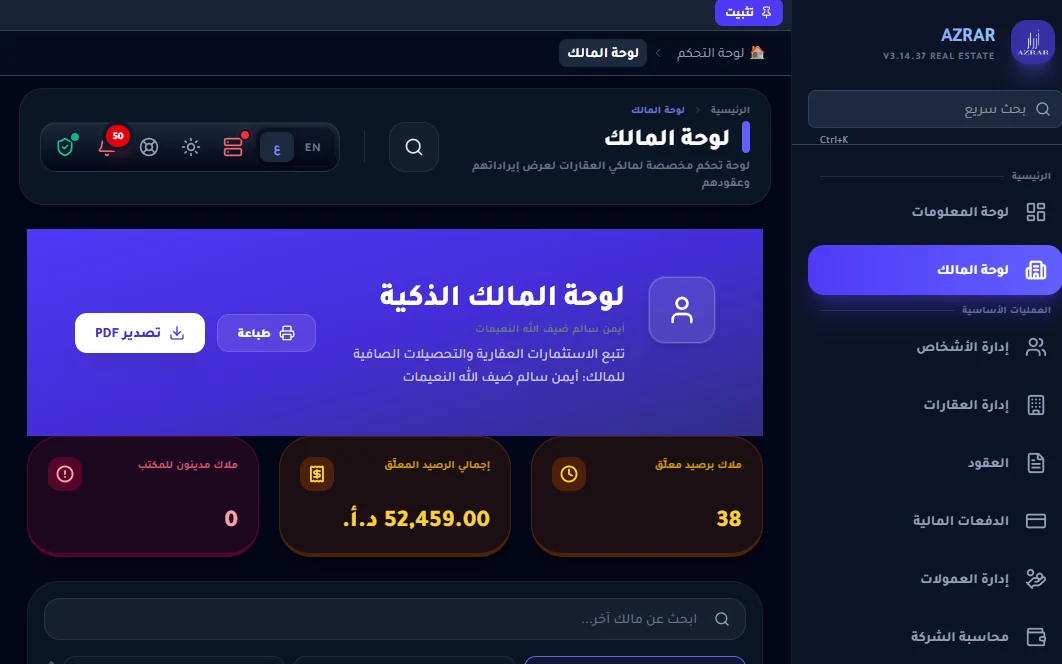
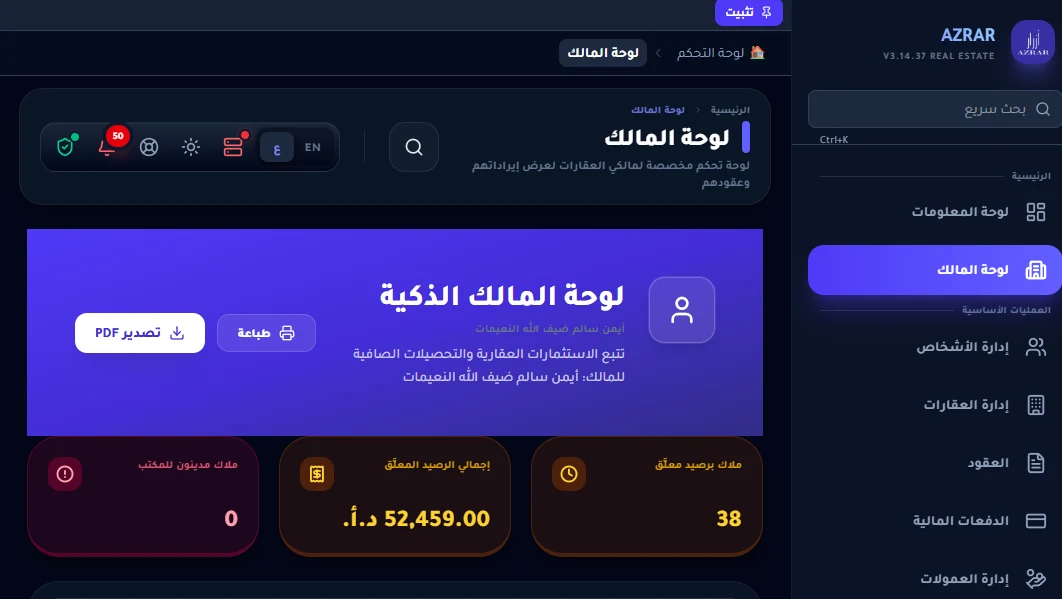
design: make the screenshots grid uniformly compact per user request
Applied a single aspect-ratio:1100/620 + object-fit:cover to the base
.shot img rule so every card in the gallery - not just the 4 recently
added ones - renders at the same short landscape height instead of each
following its own source image's natural aspect ratio. Regenerated the
4 custom thumbnail crops (owner-portal/company-finance/accounting/
print-catalog) directly at this ratio rather than relying on a second
CSS crop on top of the previous crop, and updated their width/height
attributes to match. Checked each one still shows meaningful content
(stat cards or report grid, not just the header) after the tighter crop.

diff --git a/screenshots.html b/screenshots.html
@@ -72,7 +72,7 @@ a{color:var(--blue-l);}
 .shots-grid{display:grid;grid-template-columns:repeat(4,1fr);gap:1.1rem;align-items:start;}
 .shot{margin:0;background:var(--card);border:1px solid var(--border);border-radius:14px;overflow:hidden;cursor:pointer;box-shadow:0 6px 22px rgba(15,27,51,.07);transition:transform .2s,box-shadow .2s;}
 .shot:hover{transform:translateY(-4px);box-shadow:0 16px 36px rgba(15,27,51,.16);}
-.shot img{width:100%;height:auto;display:block;background:#0f1b33;}
+.shot img{width:100%;aspect-ratio:1100/620;object-fit:cover;object-position:top;display:block;background:#0f1b33;}
 .shot.wide{grid-column:1/-1;}
 .shot.wide img{max-height:460px;object-fit:cover;object-position:top;}
 .shot figcaption{padding:.7rem 1rem;font-size:.85rem;font-weight:700;color:var(--head);text-align:center;border-top:1px solid var(--border);}
@@ -177,10 +177,10 @@ height="0" width="0" style="display:none;visibility:hidden"></iframe></noscript>
       <figure class="shot" onclick="openShot('shots/help.webp')"><img src="shots/help.webp" width="1100" height="687" loading="lazy" alt="AZRAR Help & Documentation"><figcaption>مركز المساعدة والدعم</figcaption></figure>
       <figure class="shot" onclick="openShot('shots/login.webp')"><img src="shots/login.webp" width="760" height="475" loading="lazy" alt="AZRAR Login"><figcaption>تسجيل الدخول</figcaption></figure>
       <figure class="shot" onclick="openShot('shots/menu.webp')"><img src="shots/menu.webp" width="263" height="1829" loading="lazy" alt="AZRAR 17 Modules Menu"><figcaption>قائمة الأنظمة الفرعية الـ17</figcaption></figure>
-      <figure class="shot" onclick="openShot('shots/owner-portal.webp')"><img src="shots/owner-portal-thumb.webp" width="1062" height="664" loading="lazy" alt="AZRAR Owner Portal"><figcaption>لوحة المالك</figcaption></figure>
-      <figure class="shot" onclick="openShot('shots/company-finance.webp')"><img src="shots/company-finance-thumb.webp" width="791" height="560" loading="lazy" alt="AZRAR Company Finance"><figcaption>محاسبة الشركة</figcaption></figure>
-      <figure class="shot" onclick="openShot('shots/accounting.webp')"><img src="shots/accounting-thumb.webp" width="784" height="490" loading="lazy" alt="AZRAR Accounting System"><figcaption>النظام المحاسبي</figcaption></figure>
-      <figure class="shot" onclick="openShot('shots/print-catalog.webp')"><img src="shots/print-catalog-thumb.webp" width="798" height="700" loading="lazy" alt="AZRAR Print Catalog"><figcaption>كتالوج الطباعة</figcaption></figure>
+      <figure class="shot" onclick="openShot('shots/owner-portal.webp')"><img src="shots/owner-portal-thumb.webp" width="1062" height="599" loading="lazy" alt="AZRAR Owner Portal"><figcaption>لوحة المالك</figcaption></figure>
+      <figure class="shot" onclick="openShot('shots/company-finance.webp')"><img src="shots/company-finance-thumb.webp" width="791" height="446" loading="lazy" alt="AZRAR Company Finance"><figcaption>محاسبة الشركة</figcaption></figure>
+      <figure class="shot" onclick="openShot('shots/accounting.webp')"><img src="shots/accounting-thumb.webp" width="784" height="442" loading="lazy" alt="AZRAR Accounting System"><figcaption>النظام المحاسبي</figcaption></figure>
+      <figure class="shot" onclick="openShot('shots/print-catalog.webp')"><img src="shots/print-catalog-thumb.webp" width="798" height="450" loading="lazy" alt="AZRAR Print Catalog"><figcaption>كتالوج الطباعة</figcaption></figure>
   </div>
   <div class="note">ملاحظة: أسماء العملاء في لقطة العقود مضبّبة حفاظاً على الخصوصية.</div>
   <div class="cta"><h2>جرّب نظام أزرار مجاناً</h2><p>30 يوماً بكل المزايا — بدون بطاقة ائتمان.</p><a href="https://wa.me/962798986465?text=أريد%20تجربة%20نظام%20أزرار%20مجاناً" target="_blank" rel="noopener">تواصل عبر واتساب</a></div>

diff --git a/screenshots-en.html b/screenshots-en.html
@@ -72,7 +72,7 @@ a{color:var(--blue-l);}
 .shots-grid{display:grid;grid-template-columns:repeat(4,1fr);gap:1.1rem;align-items:start;}
 .shot{margin:0;background:var(--card);border:1px solid var(--border);border-radius:14px;overflow:hidden;cursor:pointer;box-shadow:0 6px 22px rgba(15,27,51,.07);transition:transform .2s,box-shadow .2s;}
 .shot:hover{transform:translateY(-4px);box-shadow:0 16px 36px rgba(15,27,51,.16);}
-.shot img{width:100%;height:auto;display:block;background:#0f1b33;}
+.shot img{width:100%;aspect-ratio:1100/620;object-fit:cover;object-position:top;display:block;background:#0f1b33;}
 .shot.wide{grid-column:1/-1;}
 .shot.wide img{max-height:460px;object-fit:cover;object-position:top;}
 .shot figcaption{padding:.7rem 1rem;font-size:.85rem;font-weight:700;color:var(--head);text-align:center;border-top:1px solid var(--border);}
@@ -177,10 +177,10 @@ height="0" width="0" style="display:none;visibility:hidden"></iframe></noscript>
       <figure class="shot" onclick="openShot('shots/help.webp')"><img src="shots/help.webp" width="1100" height="687" loading="lazy" alt="AZRAR Help & Documentation"><figcaption>Help Center & Guides</figcaption></figure>
       <figure class="shot" onclick="openShot('shots/login.webp')"><img src="shots/login.webp" width="760" height="475" loading="lazy" alt="AZRAR Login"><figcaption>Login Screen</figcaption></figure>
       <figure class="shot" onclick="openShot('shots/menu.webp')"><img src="shots/menu.webp" width="263" height="1829" loading="lazy" alt="AZRAR 17 Modules Menu"><figcaption>17 Sub-Systems Menu</figcaption></figure>
-      <figure class="shot" onclick="openShot('shots/owner-portal.webp')"><img src="shots/owner-portal-thumb.webp" width="1062" height="664" loading="lazy" alt="AZRAR Owner Portal"><figcaption>Owner Portal</figcaption></figure>
-      <figure class="shot" onclick="openShot('shots/company-finance.webp')"><img src="shots/company-finance-thumb.webp" width="791" height="560" loading="lazy" alt="AZRAR Company Finance"><figcaption>Company Finance</figcaption></figure>
-      <figure class="shot" onclick="openShot('shots/accounting.webp')"><img src="shots/accounting-thumb.webp" width="784" height="490" loading="lazy" alt="AZRAR Accounting System"><figcaption>Accounting System</figcaption></figure>
-      <figure class="shot" onclick="openShot('shots/print-catalog.webp')"><img src="shots/print-catalog-thumb.webp" width="798" height="700" loading="lazy" alt="AZRAR Print Catalog"><figcaption>Print Catalog</figcaption></figure>
+      <figure class="shot" onclick="openShot('shots/owner-portal.webp')"><img src="shots/owner-portal-thumb.webp" width="1062" height="599" loading="lazy" alt="AZRAR Owner Portal"><figcaption>Owner Portal</figcaption></figure>
+      <figure class="shot" onclick="openShot('shots/company-finance.webp')"><img src="shots/company-finance-thumb.webp" width="791" height="446" loading="lazy" alt="AZRAR Company Finance"><figcaption>Company Finance</figcaption></figure>
+      <figure class="shot" onclick="openShot('shots/accounting.webp')"><img src="shots/accounting-thumb.webp" width="784" height="442" loading="lazy" alt="AZRAR Accounting System"><figcaption>Accounting System</figcaption></figure>
+      <figure class="shot" onclick="openShot('shots/print-catalog.webp')"><img src="shots/print-catalog-thumb.webp" width="798" height="450" loading="lazy" alt="AZRAR Print Catalog"><figcaption>Print Catalog</figcaption></figure>
   </div>
   <div class="note">Note: client names in the contracts shot are blurred for privacy.</div>
   <div class="cta"><h2>Try AZRAR Free</h2><p>30 days, all features — no credit card.</p><a href="https://wa.me/962798986465?text=I%20want%20to%20try%20AZRAR%20free" target="_blank" rel="noopener">Contact via WhatsApp</a></div>
